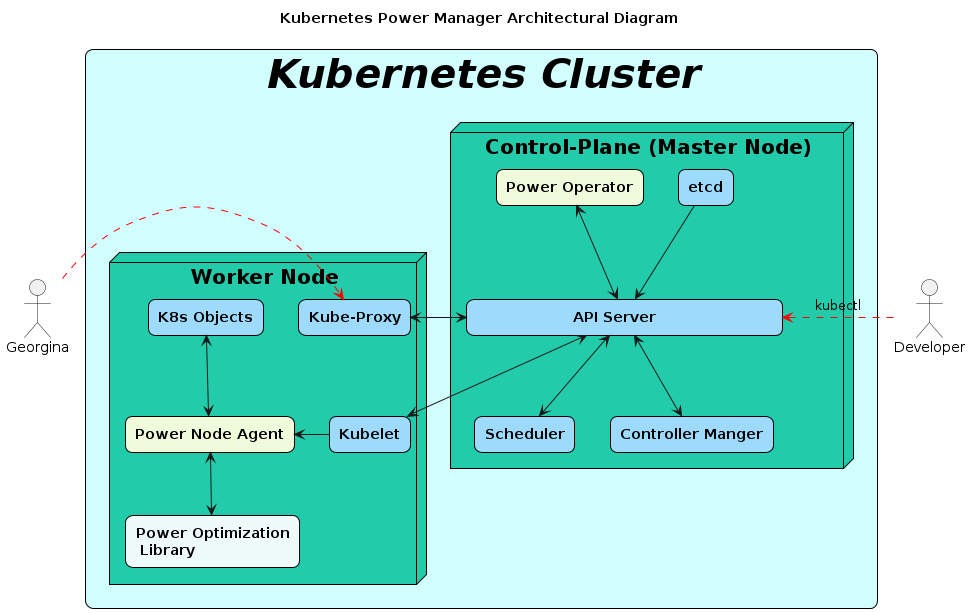
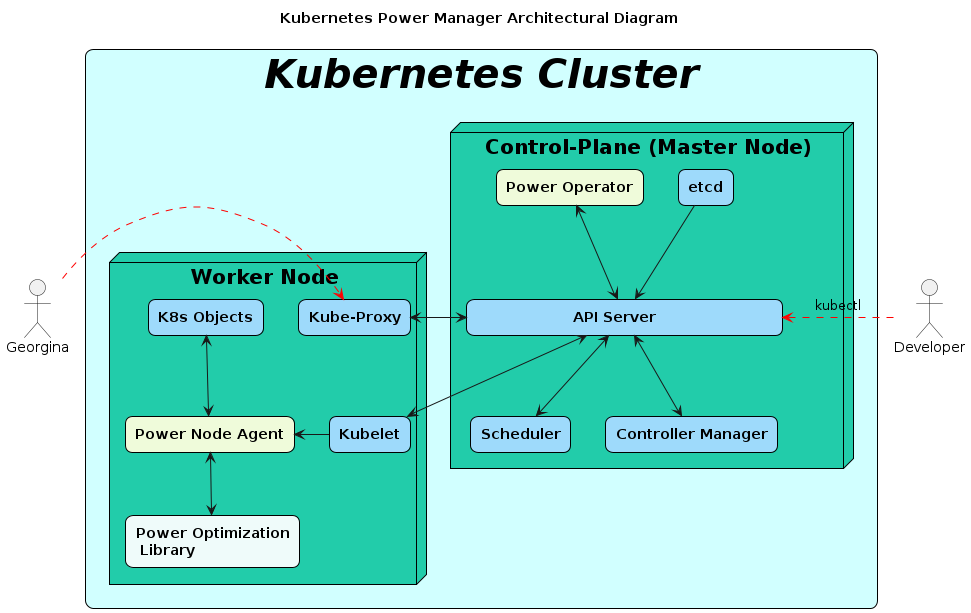
chore: version change and clean up (#77)
* chore: version change and clean up

* changes version form 2.2.0 to 2.3.0
* adds coverage check
* fixes complaints from go vet
* runs go mod tidy

* chore: reflecting new release changes in diagrams

*c hanges p-state to more generic "scaling driver"
* fixes typo

Changed region(s): [[0.2781, 0.093, 0.7106, 0.155], [0.4634, 0.6199, 0.8033, 0.7439], [0.587, 0.5889, 0.6179, 0.6199]]

diff --git a/controllers/test_helper_test.go b/controllers/test_helper_test.go
@@ -168,19 +168,23 @@ type profMock struct {
 	power.Profile
 }
 
-func (m profMock) Name() string {
+func (m *profMock) Name() string {
 	return m.Called().String(0)
 }
-func (m profMock) Epp() string {
+
+func (m *profMock) Epp() string {
 	return m.Called().String(0)
 }
-func (m profMock) MaxFreq() uint {
+
+func (m *profMock) MaxFreq() uint {
 	return uint(m.Called().Int(0))
 }
-func (m profMock) MinFreq() uint {
+
+func (m *profMock) MinFreq() uint {
 	return uint(m.Called().Int(0))
 }
-func (m profMock) Governor() string {
+
+func (m *profMock) Governor() string {
 	return m.Called().String(0)
 }
 
@@ -558,13 +562,13 @@ type errClient struct {
 	mock.Mock
 }
 
-func (e errClient) Get(ctx context.Context, NamespacedName types.NamespacedName, obj client.Object, opts ...client.GetOption) error {
+func (e *errClient) Get(ctx context.Context, NamespacedName types.NamespacedName, obj client.Object, opts ...client.GetOption) error {
 	if len(opts) != 0 {
 		return e.Called(ctx, NamespacedName, obj, opts).Error(0)
 	}
 	return e.Called(ctx, NamespacedName, obj).Error(0)
 }
-func (e errClient) List(ctx context.Context, list client.ObjectList, opts ...client.ListOption) error {
+func (e *errClient) List(ctx context.Context, list client.ObjectList, opts ...client.ListOption) error {
 	if len(opts) != 0 {
 		return e.Called(ctx, list, opts).Error(0)
 
@@ -572,42 +576,42 @@ func (e errClient) List(ctx context.Context, list client.ObjectList, opts ...cli
 	return e.Called(ctx, list).Error(0)
 }
 
-func (e errClient) Create(ctx context.Context, obj client.Object, opts ...client.CreateOption) error {
+func (e *errClient) Create(ctx context.Context, obj client.Object, opts ...client.CreateOption) error {
 	if len(opts) != 0 {
 		return e.Called(ctx, obj, opts).Error(0)
 	}
 	return e.Called(ctx, obj).Error(0)
 }
 
-func (e errClient) Update(ctx context.Context, obj client.Object, opts ...client.UpdateOption) error {
+func (e *errClient) Update(ctx context.Context, obj client.Object, opts ...client.UpdateOption) error {
 	if len(opts) != 0 {
 		return e.Called(ctx, obj, opts).Error(0)
 	}
 	return e.Called(ctx, obj).Error(0)
 }
 
-func (e errClient) Delete(ctx context.Context, obj client.Object, opts ...client.DeleteOption) error {
+func (e *errClient) Delete(ctx context.Context, obj client.Object, opts ...client.DeleteOption) error {
 	if len(opts) != 0 {
 		return e.Called(ctx, obj, opts).Error(0)
 	}
 	return e.Called(ctx, obj).Error(0)
 }
 
-func (e errClient) DeleteAllOf(ctx context.Context, obj client.Object, opts ...client.DeleteAllOfOption) error {
+func (e *errClient) DeleteAllOf(ctx context.Context, obj client.Object, opts ...client.DeleteAllOfOption) error {
 	if len(opts) != 0 {
 		return e.Called(ctx, obj, opts).Error(0)
 	}
 	return e.Called(ctx, obj).Error(0)
 }
 
-func (e errClient) Patch(ctx context.Context, obj client.Object, patch client.Patch, opts ...client.PatchOption) error {
+func (e *errClient) Patch(ctx context.Context, obj client.Object, patch client.Patch, opts ...client.PatchOption) error {
 	if len(opts) != 0 {
 		return e.Called(ctx, obj, patch, opts).Error(0)
 	}
 	return e.Called(ctx, obj, patch).Error(0)
 }
 
-func (e errClient) Status() client.SubResourceWriter {
+func (e *errClient) Status() client.SubResourceWriter {
 	return e.Called().Get(0).(client.SubResourceWriter)
 }
 
@@ -616,7 +620,7 @@ type mockResourceWriter struct {
 	client.SubResourceWriter
 }
 
-func (m mockResourceWriter) Update(ctx context.Context, obj client.Object, opts ...client.SubResourceUpdateOption) error {
+func (m *mockResourceWriter) Update(ctx context.Context, obj client.Object, opts ...client.SubResourceUpdateOption) error {
 	if len(opts) != 0 {
 		return m.Called(ctx, obj, opts).Error(0)
 	}
@@ -628,46 +632,46 @@ type mgrMock struct {
 	manager.Manager
 }
 
-func (m mgrMock) Add(r manager.Runnable) error {
+func (m *mgrMock) Add(r manager.Runnable) error {
 	return m.Called(r).Error(0)
 }
 
-func (m mgrMock) Elected() <-chan struct{} {
+func (m *mgrMock) Elected() <-chan struct{} {
 	return m.Called().Get(0).(<-chan struct{})
 }
 
-func (m mgrMock) AddMetricsExtraHandler(path string, handler http.Handler) error {
+func (m *mgrMock) AddMetricsExtraHandler(path string, handler http.Handler) error {
 	return m.Called(path, handler).Get(0).(error)
 }
 
-func (m mgrMock) AddHealthzCheck(name string, check healthz.Checker) error {
+func (m *mgrMock) AddHealthzCheck(name string, check healthz.Checker) error {
 	return m.Called(name, check).Get(0).(error)
 }
 
-func (m mgrMock) AddReadyzCheck(name string, check healthz.Checker) error {
+func (m *mgrMock) AddReadyzCheck(name string, check healthz.Checker) error {
 	return m.Called(name, check).Get(0).(error)
 }
 
-func (m mgrMock) Start(ctx context.Context) error {
+func (m *mgrMock) Start(ctx context.Context) error {
 	return m.Called(ctx).Get(0).(error)
 }
 
-func (m mgrMock) GetWebhookServer() *webhook.Server {
+func (m *mgrMock) GetWebhookServer() *webhook.Server {
 	return m.Called().Get(0).(*webhook.Server)
 }
 
-func (m mgrMock) GetLogger() logr.Logger {
+func (m *mgrMock) GetLogger() logr.Logger {
 	return m.Called().Get(0).(logr.Logger)
 
 }
 
-func (m mgrMock) GetControllerOptions() v1alpha1.ControllerConfigurationSpec {
+func (m *mgrMock) GetControllerOptions() v1alpha1.ControllerConfigurationSpec {
 	return m.Called().Get(0).(v1alpha1.ControllerConfigurationSpec)
 }
 
-func (m mgrMock) GetScheme() *runtime.Scheme {
+func (m *mgrMock) GetScheme() *runtime.Scheme {
 	return m.Called().Get(0).(*runtime.Scheme)
 }
-func (m mgrMock) SetFields(i interface{}) error {
+func (m *mgrMock) SetFields(i interface{}) error {
 	return m.Called(i).Error(0)
 }

diff --git a/pkg/podstate/podstate_test.go b/pkg/podstate/podstate_test.go
@@ -56,12 +56,12 @@ func TestGetPodFromState(t *testing.T) {
 
 	//Test case -- Existing pod in the state
 	existingPodName := "pod1"
-	existingPod := state.GetPodFromState(existingPodName)
+	existingPod := state.GetPodFromState(existingPodName, "")
 	assert.Equal(t, existingPodName, existingPod.Name)
 
 	//Test case -- Non-Existing pod in the state
 	nonExistingPodName := "pod4"
-	nonExistingPod := state.GetPodFromState(nonExistingPodName)
+	nonExistingPod := state.GetPodFromState(nonExistingPodName, "")
 	if !reflect.DeepEqual(nonExistingPod, powerv1.GuaranteedPod{}) {
 		t.Errorf("Expected: empty pod. Actual: Got pod %+v", nonExistingPod)
 	}
@@ -97,7 +97,7 @@ func TestDeletePodFromState(t *testing.T) {
 
 	//Test case: Delteing an existing pod
 	podToDelete := "pod1"
-	err := state.DeletePodFromState(podToDelete)
+	err := state.DeletePodFromState(podToDelete, "")
 	assert.Nil(t, err)
 
 	for _, pod := range state.GuaranteedPods {
@@ -108,6 +108,6 @@ func TestDeletePodFromState(t *testing.T) {
 
 	//Test case -- Deleting a non-existing pod
 	nonExistingPodState := "pod3"
-	err = state.DeletePodFromState(nonExistingPodState)
+	err = state.DeletePodFromState(nonExistingPodState, "")
 	assert.Nil(t, err)
 }

diff --git a/diagrams-docs/README.md b/diagrams-docs/README.md
@@ -22,13 +22,13 @@ With each update or release an updated diagram will be available with the versio
 ## Creating Power Manager Diagrams
 
 - Running pm-sequenc.puml in this directory:
-    - java -jar ../../plantuml.jar pm-sequence.puml
+    - java -jar plantuml.jar pm-sequence.puml
     - output file is pm-sequence.png
 - Running the Power Manager overall architecture diagram
-    - java -jar ../../plantuml.jar power-arch.puml
+    - java -jar plantuml.jar power-arch.puml
     - output file is power-arch.png
 - Running the Power Manager components diagram
-    - java -jar ../../plantuml.jar power-com.puml
+    - java -jar plantuml.jar power-com.puml
     - output file is power-com.png
 
 ## Summary of elements in the K8s Cluster

diff --git a/README.md b/README.md
@@ -756,7 +756,7 @@ spec:
           args:
             - --enable-leader-election
           imagePullPolicy: IfNotPresent
-          image: power-operator:v2.2.0
+          image: power-operator:v2.3.0
           securityContext:
             allowPrivilegeEscalation: false
             capabilities:
